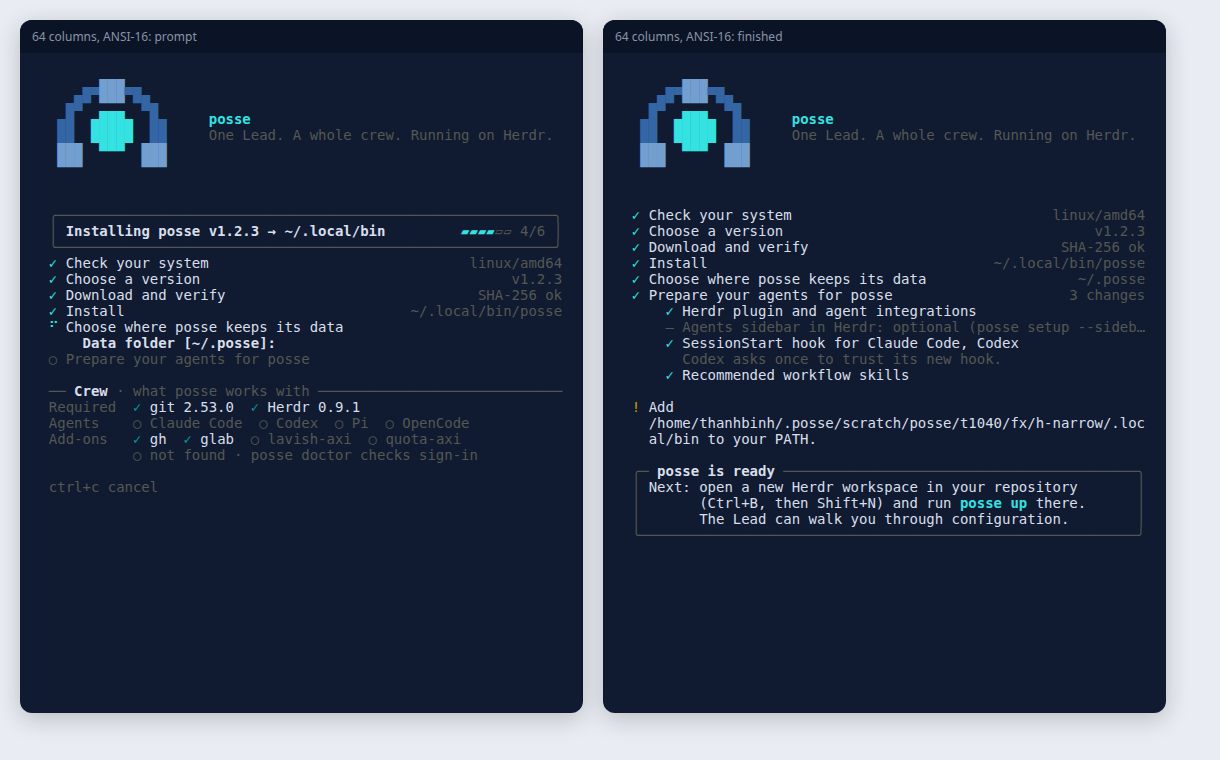
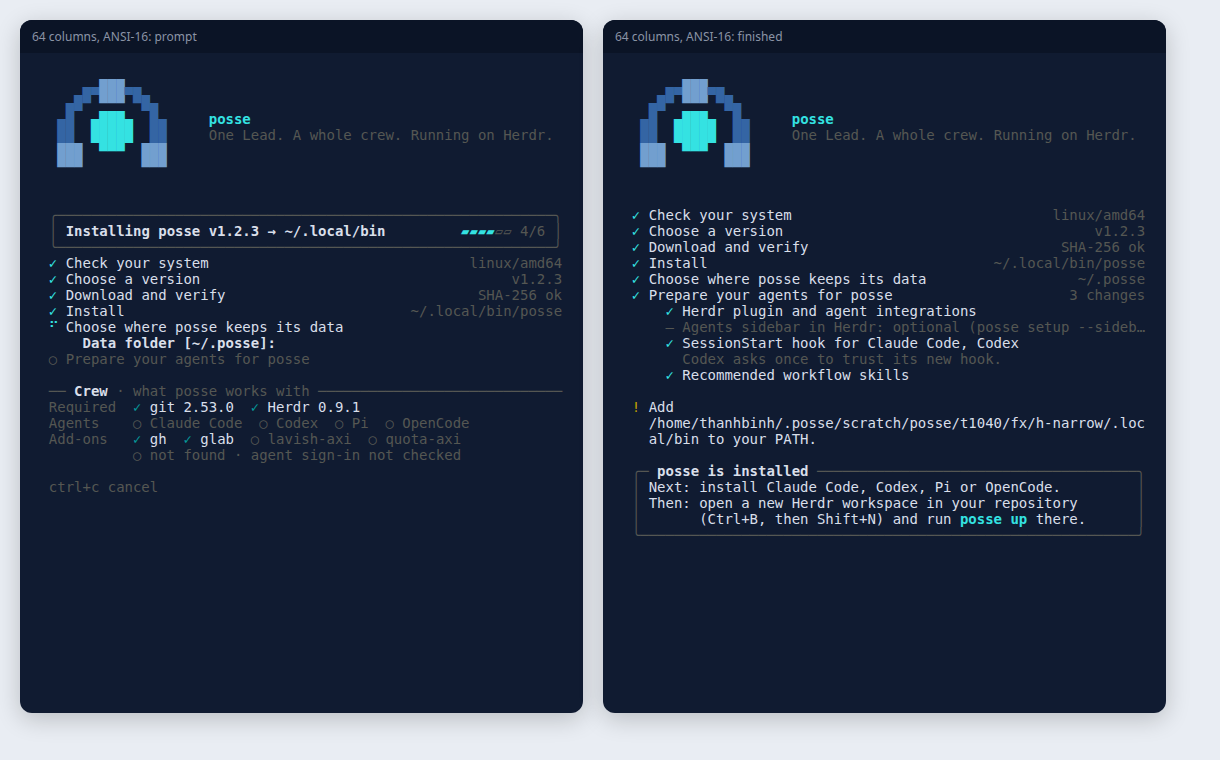
fix(install): honest readiness, sign-in wording and wrapped summary box
The summary reports posse is installed and names the missing agent when no
supported agent is on PATH, in both the newly prepared and already prepared
paths. The Crew panel and plain output say agent sign-in was not checked.
The summary box wraps its body to the box width.

Changed region(s): [[0.5295, 0.6053, 0.9033, 0.6961], [0.218, 0.575, 0.3738, 0.6053]]

diff --git a/internal/e2e/installer_home_test.go b/internal/e2e/installer_home_test.go
@@ -277,3 +277,57 @@ func unsetEnv(env []string, key string) []string {
 	}
 	return kept
 }
+
+// TestInstallerWithoutAgentIsNotReady installs a real release with no
+// supported agent on PATH. Preparing the machine succeeds, first while setup
+// applies and then while it is already complete, but neither run may tell the
+// User that posse up is ready.
+func TestInstallerWithoutAgentIsNotReady(t *testing.T) {
+	root := newFixtureRoot(t, herdr.TestRootName())
+	bin := filepath.Join(root, "bin")
+	for _, dir := range []string{bin, filepath.Join(root, "home"), filepath.Join(root, "posse"), filepath.Join(root, "claude"), filepath.Join(root, "codex")} {
+		if err := os.MkdirAll(dir, 0o700); err != nil {
+			t.Fatal(err)
+		}
+	}
+	releases := writeReleaseFixture(t, root, "v9.9.9")
+	herdrBinary, err := exec.LookPath("herdr")
+	if err != nil {
+		t.Fatal(err)
+	}
+	if err := os.Symlink(herdrBinary, filepath.Join(bin, "herdr")); err != nil {
+		t.Fatal(err)
+	}
+	for _, agent := range []string{"claude", "codex", "pi", "opencode"} {
+		if path, err := exec.LookPath(filepath.Join("/usr/bin", agent)); err == nil {
+			t.Skipf("%s is installed system-wide at %s", agent, path)
+		}
+	}
+	if _, err := herdr.WriteIsolatedConfig(root); err != nil {
+		t.Fatal(err)
+	}
+	env := isolatedE2EEnv(t, root)
+	env = setEnv(env, "PATH", bin+":/usr/bin:/bin")
+	env = append(env, "POSSE_PREFIX="+filepath.Join(root, "prefix"), "POSSE_VERSION=v9.9.9", "POSSE_RELEASE_BASE=file://"+releases, "NO_COLOR=1")
+	for _, run := range []string{"setup applies", "setup already complete"} {
+		command := exec.Command("sh", filepath.Join(moduleRoot(t), "install.sh"), "--yes")
+		command.Dir = root
+		command.Env = env
+		output, err := command.CombinedOutput()
+		if err != nil {
+			t.Fatalf("%s: install.sh: %v\n%s", run, err, output)
+		}
+		text := string(output)
+		if run == "setup already complete" && !strings.Contains(text, "Your agents are already prepared.") {
+			t.Fatalf("second run did not find setup complete:\n%s", text)
+		}
+		for _, want := range []string{"No supported agent found", "| posse is installed", "Next: install Claude Code, Codex, Pi or OpenCode."} {
+			if !strings.Contains(text, want) {
+				t.Fatalf("%s: output omitted %q:\n%s", run, want, text)
+			}
+		}
+		if strings.Contains(text, "posse is ready") {
+			t.Fatalf("%s: installer reported ready without an agent:\n%s", run, text)
+		}
+	}
+}

diff --git a/docs/proof/installer.md b/docs/proof/installer.md
@@ -8,7 +8,7 @@ Screens of `install.sh` recorded through a real pseudo-terminal with `script(1)`
 
 ## Live view
 
-The data-folder prompt, then the spinner while `posse setup` runs. Rows marked `○` are pending, `–` is optional and left alone.
+The data-folder prompt, then the spinner while `posse setup` runs. Rows marked `○` are pending, `–` is optional and left alone. The Crew panel lists the agents found on `PATH` and says that agent sign-in was not checked.
 
 ![Prompt and preparing the agents](installer-live.png)
 
@@ -16,9 +16,13 @@ Typing `~/Posse data` saved that folder in the home pointer and finished with th
 
 ![Finished with a custom data folder](installer-finished.png)
 
-At 64 columns without `COLORTERM`, the same view uses ANSI-16 colors.
+At 64 columns without `COLORTERM`, the same view uses ANSI-16 colors. This fixture has no agent, so the summary asks for one before `posse up`.
 
 ![64 columns, ANSI-16](installer-narrow.png)
+
+With no supported agent on `PATH`, the real build still prepares the machine, then reports `posse is installed` and names the missing agent. The summary box wraps to the 60-column terminal.
+
+![No supported agent at 60 columns](installer-no-agent.png)
 
 ## Errors and cancellation
 
@@ -32,7 +36,7 @@ Ctrl+C at the prompt marks the step, restores the cursor and says what state the
 
 ## Plain output
 
-Without a TTY, with `NO_COLOR` or with `TERM=dumb`, the installer prints one line per event and no escape bytes. `--yes` prepares the agents:
+Without a TTY, with `NO_COLOR` or with `TERM=dumb`, the installer prints one line per event and no escape bytes. With Claude Code on `PATH`, `--yes` prepares the agents:
 
 ```text
    .--o--.
@@ -47,7 +51,7 @@ Without a TTY, with `NO_COLOR` or with `TERM=dumb`, the installer prints one lin
   ✓  Checksum tool: sha256sum
   ✓  Git 2.53.0
   ✓  Herdr 0.9.1
-  -  No supported agent found: install Claude Code, Codex, Pi or OpenCode.
+  ✓  Agents found: Claude Code (sign-in not checked)
   ✓  Optional add-ons found: gh, glab
   -  Optional add-ons not found: lavish-axi, quota-axi
 
@@ -72,6 +76,8 @@ Without a TTY, with `NO_COLOR` or with `TERM=dumb`, the installer prints one lin
   ✓  SessionStart hook for Claude Code, Codex
        Codex asks once to trust its new hook.
   ✓  Recommended workflow skills
+
+  ! Add /home/user/.local/bin to your PATH.
 
   +------------------------------------------------------------+
   | posse is ready                                             |
